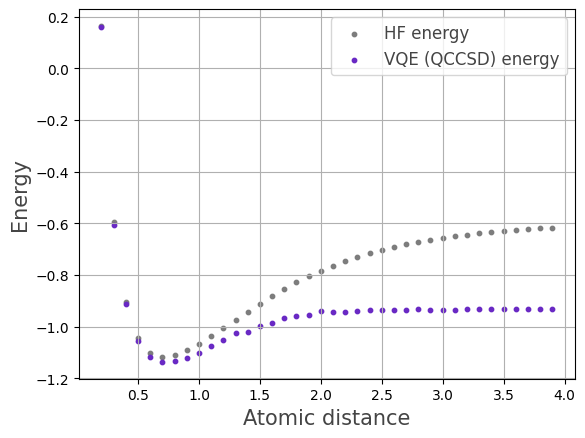
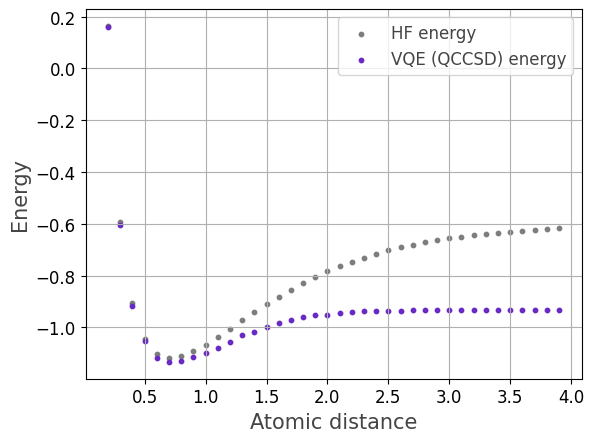
Minor updates, example H2 PEC

Changed region(s): [[0.0, 0.0297, 0.9846, 0.9795]]

diff --git a/src/qrisp/algorithms/vqe/vqe_problem.py b/src/qrisp/algorithms/vqe/vqe_problem.py
@@ -505,7 +505,8 @@ class VQEProblem:
         plt.scatter(x, y, color='#20306f',marker="o", linestyle='solid', linewidth=1, label='VQE energy')
         plt.xlabel("Iterations", fontsize=15, color="#444444")
         plt.ylabel("Energy", fontsize=15, color="#444444")
-        plt.grid()
         plt.legend(fontsize=12, labelcolor="#444444")
+        plt.tick_params(axis='both', labelsize=12)
+        plt.grid()
 
         plt.show()

diff --git a/documentation/source/reference/Examples/MolecularPotentialEnergyCurve.rst b/documentation/source/reference/Examples/MolecularPotentialEnergyCurve.rst
@@ -1,15 +1,18 @@
-.. _MolecularPotentialEnergyCurve:
+.. _MolecularPotentialEnergyCurveExample:
 
-Molecular potential Energy Curves
+Molecular Potential Energy Curves
 =================================
 
 .. currentmodule:: qrisp.vqe
 
-Exampe H_2
-==========
+Example Hydrogen
+================
 
-We import the necessary packages including the `PySCF <https://pyscf.org>`_ quantum chemistry library, and implement a function ``problem_data``
-that utilizes PySCF to compute the electronic data (one- and two-electron integrals, number of orbitals, number of electroins, nuclear repulsion energy, Hartree-Fock energy)
+We caluclate the Potetial Energy Curve for the Hydrogen molecule for varying interatomic distance of the atoms.
+
+
+We implement a function ``problem_data`` that sets up a molecule and 
+utilizes the `PySCF <https://pyscf.org>`_ quantum chemistry library to compute the :meth:`electronic data <qrisp.vqe.problems.electronic_structure.electronic_structure_problem>` (one- and two-electron integrals, number of orbitals, number of electroins, nuclear repulsion energy, Hartree-Fock energy)
 for a given molecular geometry. In this example, we vary the **atomic distance** between the two Hydrogen atoms.
 
 ::
@@ -18,9 +21,9 @@ for a given molecular geometry. In this example, we vary the **atomic distance**
     from qrisp.vqe.problems.electronic_structure import *
     from qrisp import QuantumVariable
 
-    def problem_data(x):
+    def problem_data(r):
         mol = gto.M(
-            atom = f'''H 0 0 0; H  0 0 {x}''',
+            atom = f'''H 0 0 0; H  0 0 {r}''',
             basis = 'sto-3g')
         return electronic_data(mol)
 
@@ -58,6 +61,7 @@ Finally, we visualize the results.
     plt.xlabel("Atomic distance", fontsize=15, color="#444444")
     plt.ylabel("Energy", fontsize=15, color="#444444")
     plt.legend(fontsize=12, labelcolor="#444444")
+    plt.tick_params(axis='both', labelsize=12)
     plt.grid()
     plt.show()
 
@@ -66,3 +70,15 @@ Finally, we visualize the results.
    :alt: Hydrogen Potential Energy Curve
    :scale: 80%
    :align: center
+
+
+Example Beryllium hydride
+=========================
+
+We caluclate the Potetial Energy Curve for the Beryllium hydride molecule for varying interatomic distance of the atoms.
+
+
+
+
+
+

diff --git a/documentation/source/reference/Examples/index.rst b/documentation/source/reference/Examples/index.rst
@@ -35,10 +35,10 @@ In this section, we provide a glimpse into the diverse range of applications tha
      - Provides implementations for solving optimization problems using the Quantum Approximate Optimization Algorithm. For a detailed tutorial on how to use QAOA, please refer to the :ref:`in depth QAOA tutorial <QAOA101>`.
    * - :ref:`ShorExample` 
      - Showcases the cryptographic implications of implementating Shor's algorithm and provides insight in how to easily use a custom adder.
-
+   * - :ref:`MolecularPotentialEnergyCurveExample` 
+     - Molecular Potetial Energy Curve
                     
-        
-
+      
 .. toctree::
    :hidden:
    :maxdepth: 2
@@ -56,3 +56,4 @@ In this section, we provide a glimpse into the diverse range of applications tha
    EfficientTSP
    QAOA
    Shor
+   MolecularPotentialEnergyCurve
